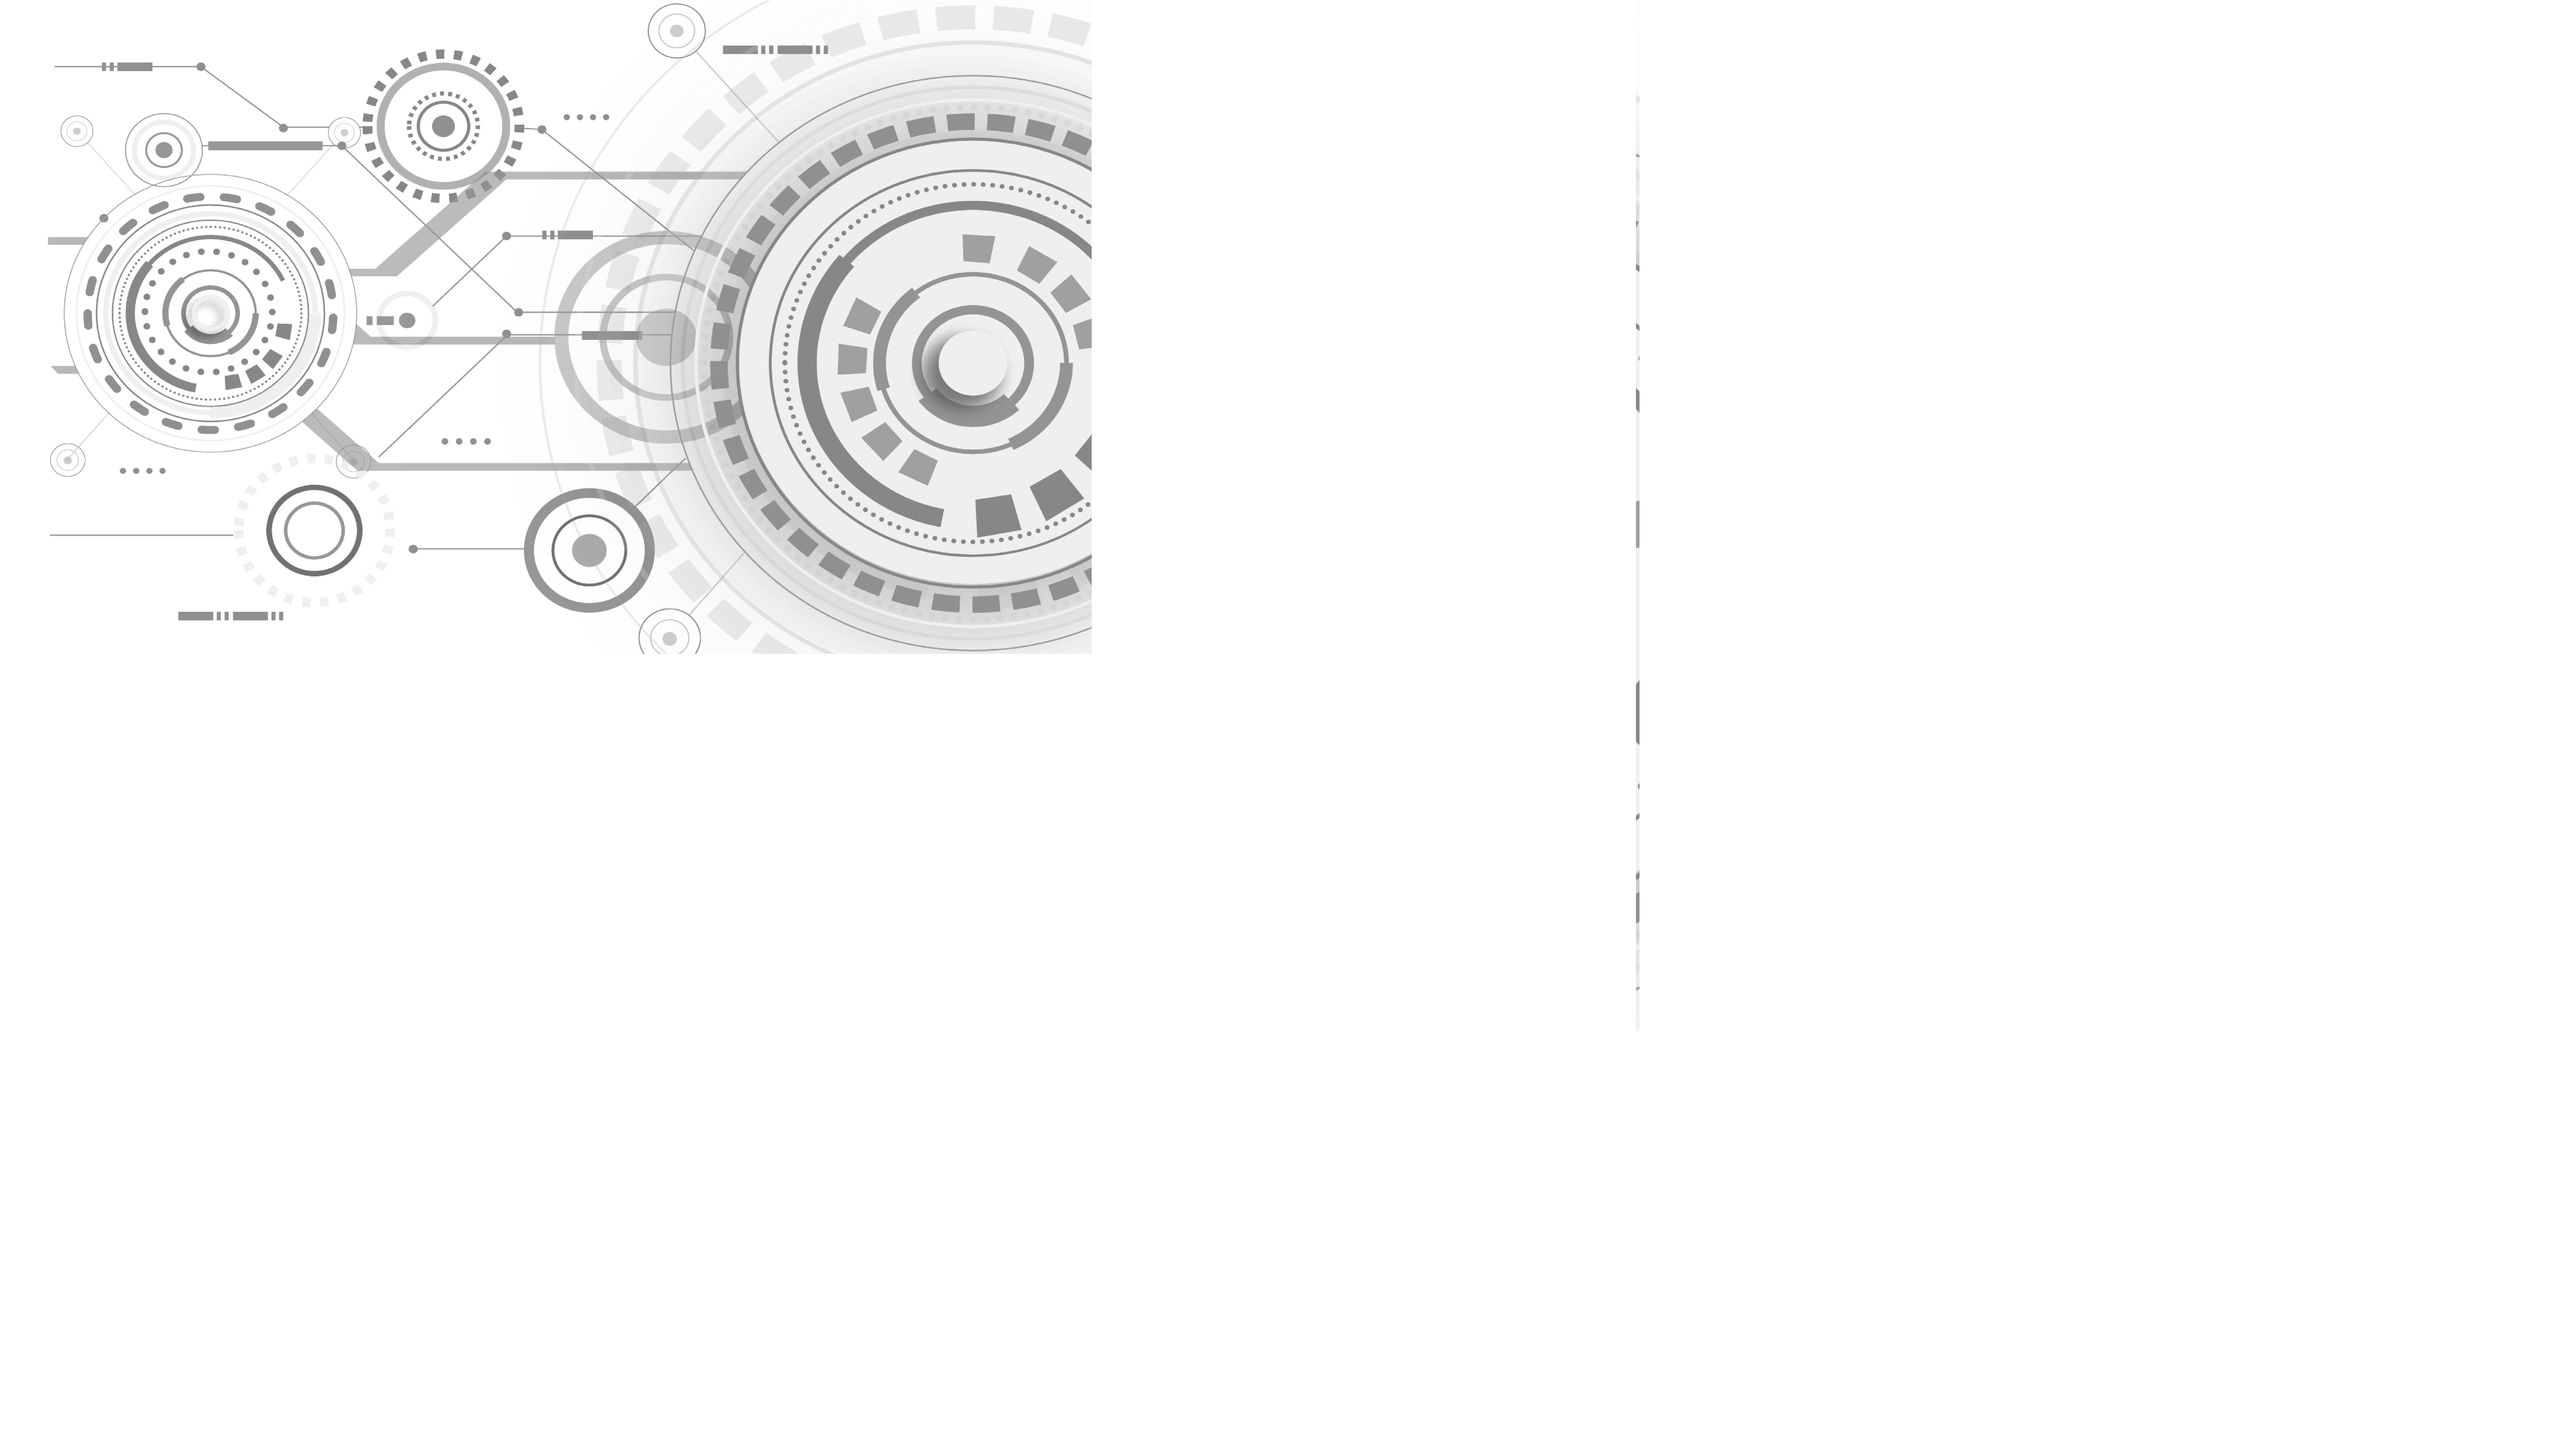
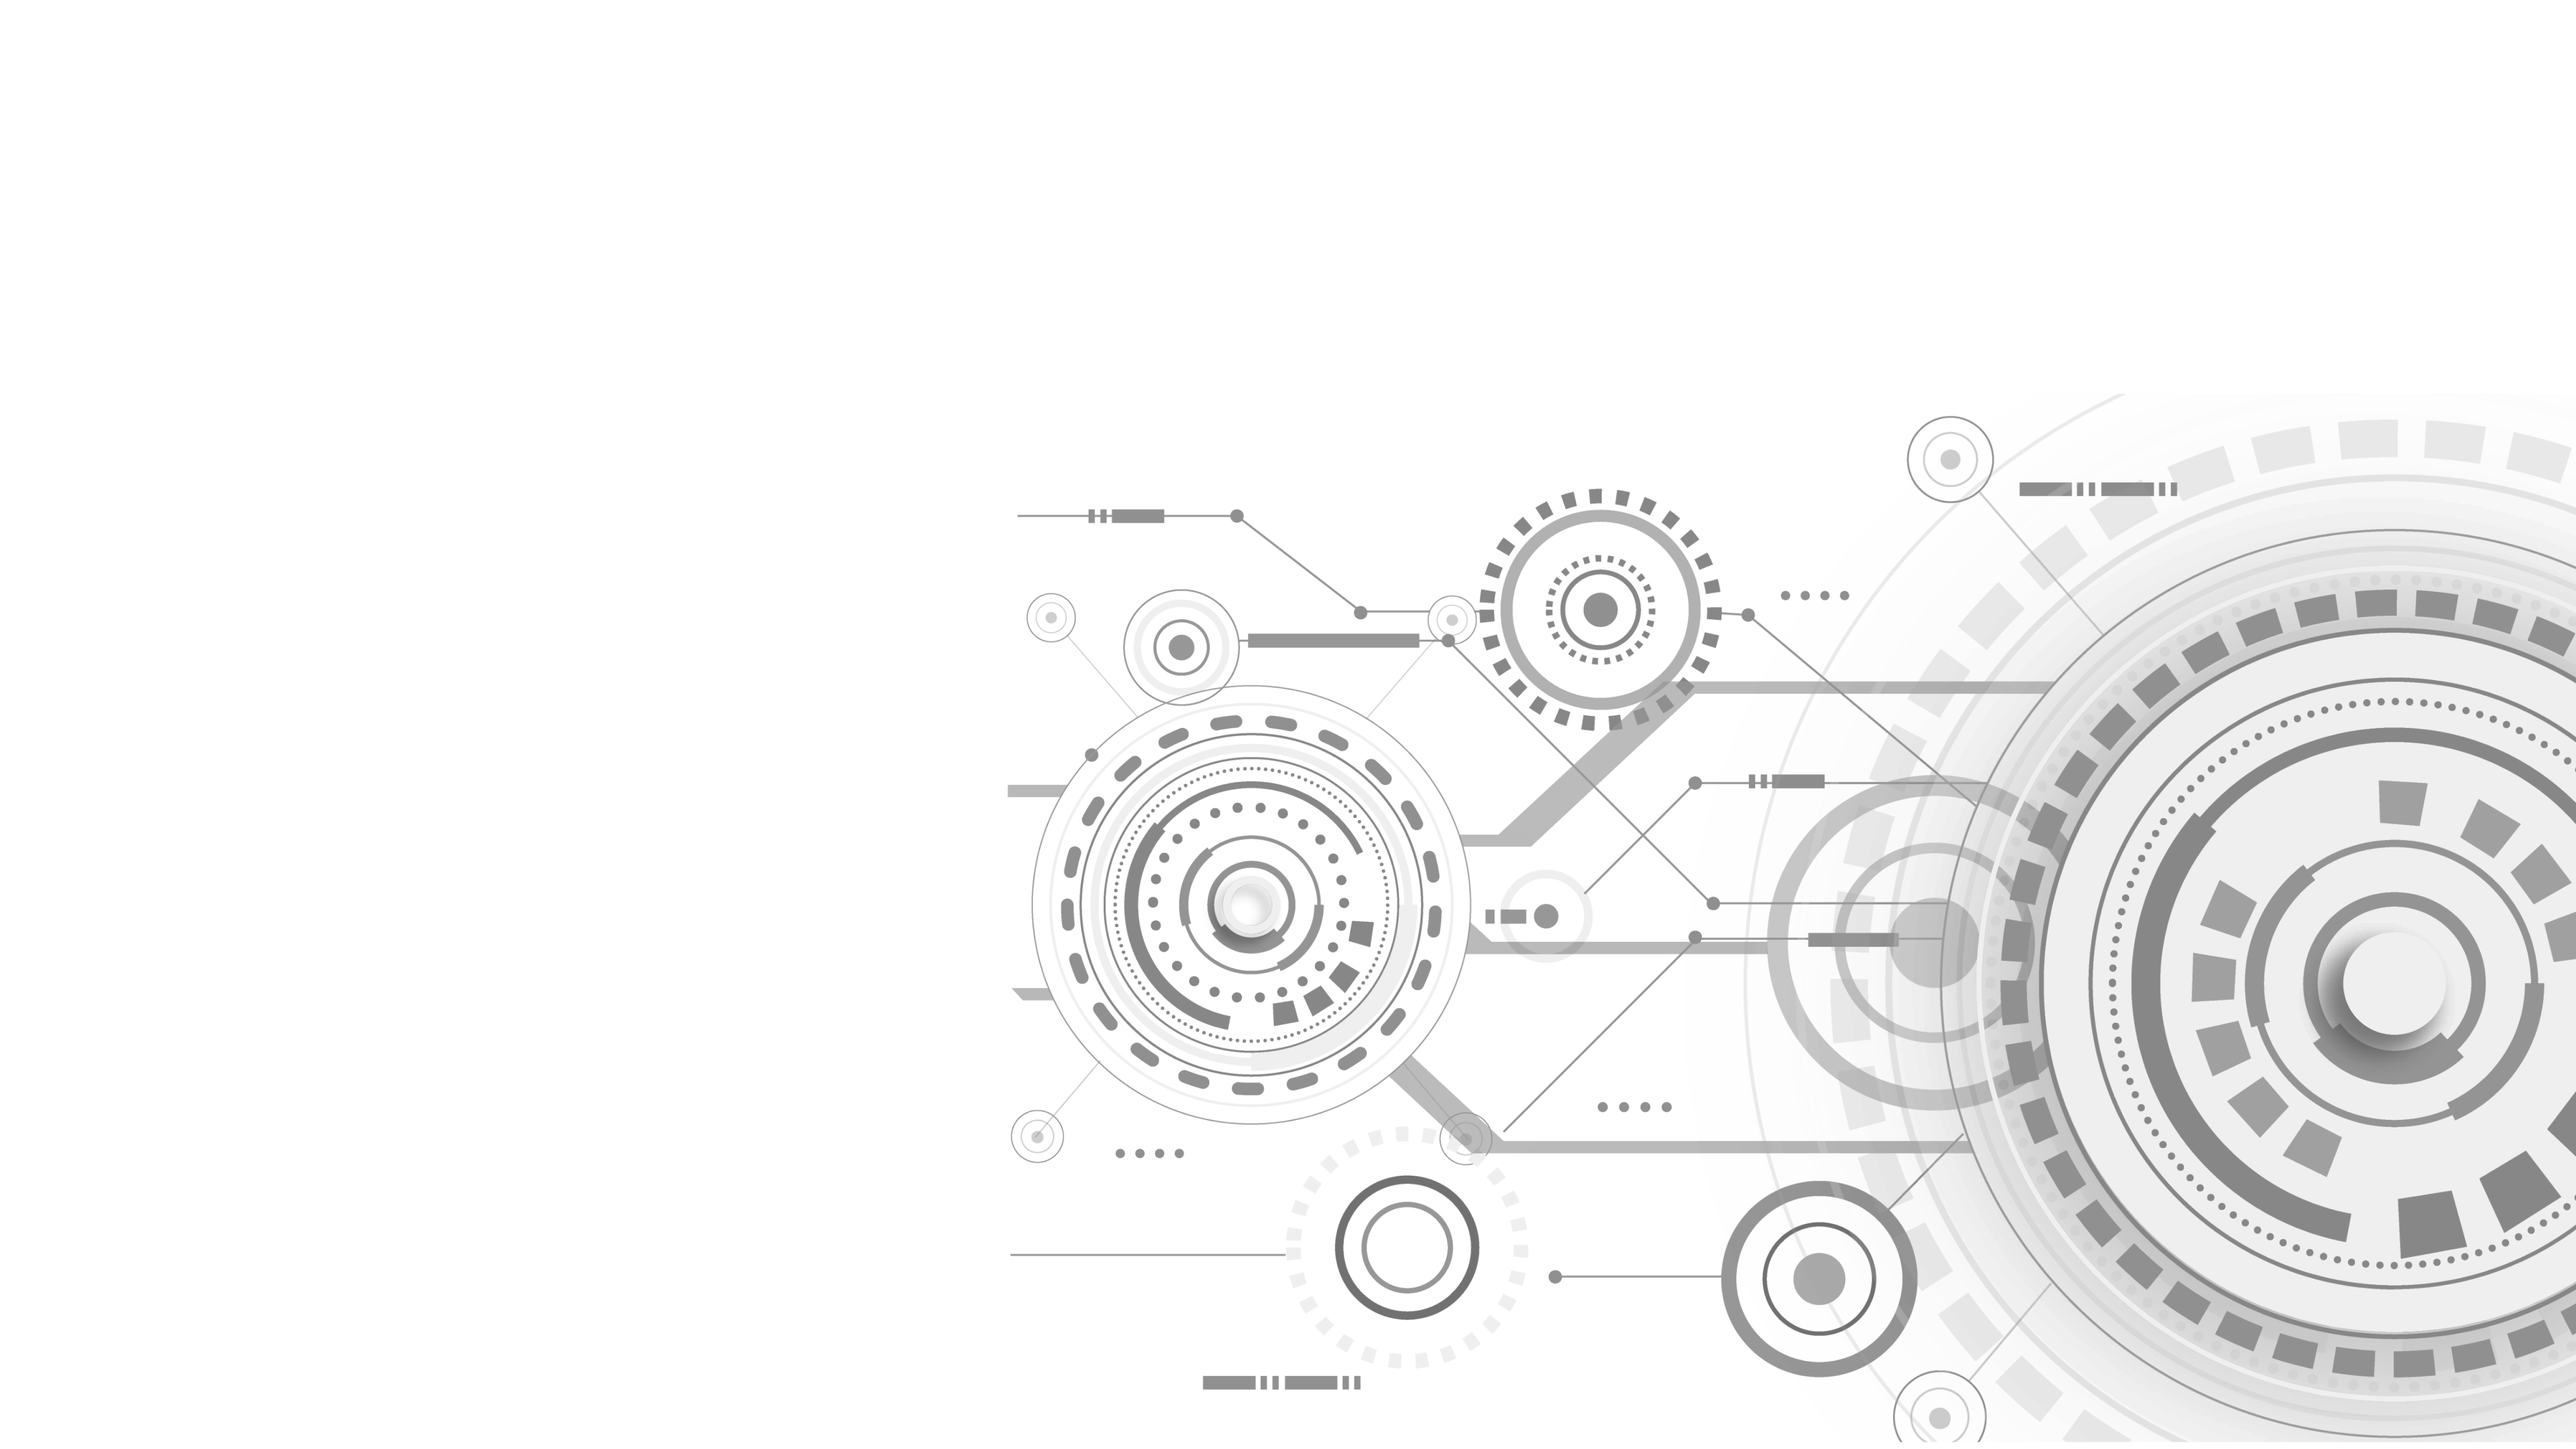
ccd

diff --git a/public/css/style5.css b/public/css/style5.css
@@ -58,7 +58,7 @@
   --img-scale: scale(1.1);
 }
 
-@media screen and (min-width: 968px) {
+/*@media screen and (min-width: 968px) {
   :root {
     --biggest-font-size: 4rem;
     --h1-font-size: 2.25rem;
@@ -68,7 +68,7 @@
     --small-font-size: .875rem;
     --smaller-font-size: .813rem;
   }
-}
+}*/
 
 /*========== Variables Dark theme ==========*/
 body.dark-theme {
@@ -79,6 +79,17 @@ body.dark-theme {
   --body-color: hsl(var(--hue-color), 29%, 12%);
   --scroll-bar-color: hsl(var(--hue-color), 12%, 48%);
   --scroll-thumb-color: hsl(var(--hue-color), 12%, 36%);
+}
+
+body{
+  width: 100%;
+  height: 100%;
+}
+
+.navbar{
+  position: fixed;
+  width: 85%;
+  backgrond:var(--body-color);
 }
 
 .col-md-5 span{
@@ -99,30 +110,54 @@ body.dark-theme {
     margin-left: 4rem;
 }*/
 
-.col-sm-7{
-    float: right;
-    padding-top: 10rem;
-    padding-bottom: 10.8rem;
-    padding-left: 4rem;
-    background-color: var(--body-color);
+.row{
+  --bs-gutter-x: -1.5rem;
+  margin-left: 0rem;
+  margin-right: 0rem;
 }
 
-.col-sm-4 {
+body{
+  width: auto;
+  background-image: url(/img/bgbody.png);
+  background-size: cover;
+  height: max-content;
+}
+
+.col-md-7{
+    /*padding-top: 12rem;*/
+    float: right;
+   padding-top: 12rem;
+   /*background: var(--body-color);*/
+   background-size: cover;
+}
+
+.col-md-5{
     float: left;
     text-align: left;
-    margin-top: 15rem;
-    padding-left: 15px;
+    padding-top: 15rem;
+    /*background-image: url(/img/bgbody.png);*/
+    background-size: cover;
+    /*background: rgb(206, 243, 255);*/
+    /*background: var(--body-color);*/
+    background: none;
+}
+
+.col-sm-4 h2{
+  margin-bottom: 25px;
 }
 
 .col-sm-4 span{
     color: deepskyblue;
 }
 
+.fa-search:hover{
+  transform: scale(1.1);
+}
+
 #search{
     width: 630px;
     height: 40px;
-    border: 1px solid;
-    border-color: deepskyblue;
+    border: none;
     border-radius: 30px;
     margin-bottom: 20px;
     padding-left: 40px;
@@ -135,10 +170,12 @@ body.dark-theme {
     outline: 0px;
 }
 
-.row {
-    width: auto;
-    height: auto;
+
+.fa-search{
+  position: absolute;
+  margin-top: 3px;
 }
+
 
 .content-table {
     border-collapse: collapse;
@@ -149,13 +186,11 @@ body.dark-theme {
     border-radius: 10px 10px 0 0;
     box-shadow: 0 0 10px (0,0,0,0.15);
     text-align: center;
-    overflow: hidden;
     
 }
 
 #kolom1{
     background-color: #fff;
-    margin-bottom: -1rem;
     padding-left: 7.5rem;
 }
 
@@ -170,9 +205,8 @@ table{
 }
 
 td{
-  border: 2px solid skyblue;
+  border: 2px solid skyblue;;
   padding: 10px 30px;
-  background-color: rgb(236, 250, 255);
   color: black;
 }
 
@@ -194,42 +228,80 @@ tr:last-child td:last-child{
 
 .btn {
     position: absolute;
+    border: none;
 }
 
 #hlo span{
     color: deepskyblue;
 }
 
-.footer__container {
-    row-gap: 4rem;
-    float: left;
+#sosmed {
+  padding-top: 20rem;
+}
+
+#sosmed .fa{
+  color: black;
+  text-decoration: none;
+  margin-right: 10px;
+}
+
+/*.card-footer .fa{
+  margin-right: 20.5rem;
+  padding-left: 2rem;
+  padding-bottom: 4.36rem;
+  color: black;
+  text-decoration: none;
+}
+
+.card-footer{
+  padding-bottom: 15px;
+}*/
+
+  .container h2{
+    font-size: 37.5px;
   }
 
-  .footer {
-      padding-top: 10rem;
-      margin-left: 3rem;
+  .container p{
+    font-size: 17px;
   }
+
+ @media screen and (max-width: 768px){
+
+  body{
+    width: auto;
+    height: auto;
+  }
+
+  #search{
+    width: 390px;
+    height: 40px;
+    border: none;
+    border-radius: 30px;
+    margin-bottom: 20px;
+    padding-left: 40px;
+    padding-bottom: 5px;
+    padding-right: 15px;
+}
+
+.content-table {
+  border-collapse: collapse;
+  margin: 30px 0;
+  font-size: 0.9em;
+  width: 390px;
+  padding-top: 20px;
+  border-radius: 10px 10px 0 0;
+  box-shadow: 0 0 10px (0,0,0,0.15);
+  text-align: center;
   
-  .footer__content {
-    grid-template-columns: repeat(auto-fit, minmax(220px, 1fr));
-    row-gap: 1rem;
-  }
-  
-  .footer__title, 
-  .footer__subtitle {
-    font-size: var(--h3-font-size);
-  }
-  
-  .footer__title {
-    margin-bottom: var(--mb-0-5);
-  }
-  
-  .footer__description {
-    margin-bottom: var(--mb-2);
-  }
-  
-  .footer__social {
-    font-size: 1.25rem;
-    color: var(--title-color);
-    margin-right: var(--mb-1-25);
-  }
+}
+
+.col-md-7{
+  text-align: center;
+  padding-right: 15px;
+}
+
+.col-md-5{
+  text-align: center;
+  padding-right: 15px;
+}
+ }

diff --git a/resources/views/frontend/cari.blade.php b/resources/views/frontend/cari.blade.php
@@ -16,8 +16,11 @@
         <script src="js/jquery-1.12.4.min.js"></script>
         <script src="js/jquery.easing.1.3.js"></script>
         <script src="https://kit.fontawesome.com/206142bfe3.js" crossorigin="anonymous"></script>
+        <script src="https://ajax.googleapis.com/ajax/libs/jquery/3.1.0/jquery.min.js"></script>
+  
 
         
+<link rel="stylesheet" href="https://cdnjs.cloudflare.com/ajax/libs/font-awesome/4.7.0/css/font-awesome.min.css">        
 
         <!--=============== REMIXICONS ===============-->
         <link href="https://cdn.jsdelivr.net/npm/remixicon@2.5.0/fonts/remixicon.css" rel="stylesheet">
@@ -34,32 +37,83 @@
     <title>Cari Kelompok</title>
   </head>
   <body>
-    <nav class="navbar navbar-expand-lg navbar-light bg-light">
       <div class="container">
-        <a class="navbar-brand" href="#">Navbar</a>
-        <button class="navbar-toggler" type="button" data-bs-toggle="collapse" data-bs-target="#navbarNav" aria-controls="navbarNav" aria-expanded="false" aria-label="Toggle navigation">
-          <span class="navbar-toggler-icon"></span>
-        </button>
-        <div class="collapse navbar-collapse" id="navbarNav">
-          <ul class="navbar-nav ms-auto">
-            <li class="nav-item">
-              <a class="nav-link active" aria-current="page" href="#">Home</a>
-            </li>
-            <li class="nav-item">
-              <a class="nav-link" href="#">Features</a>
-            </li>
-            <li class="nav-item">
-              <a class="nav-link" href="#">Pricing</a>
-            </li>
-            <li class="nav-item">
-              <a class="nav-link disabled" href="#" tabindex="-1" aria-disabled="true">Disabled</a>
-            </li>
-          </ul>
-        </div>
+    <nav class="navbar navbar-expand-sm navbar-light">
+      <div class="container">
+          <a href="/" class="navbar-brand">POSITRON</a>
+          <button class="navbar-toggler" type="button" data-bs-toggle="collapse" data-bs-target="#navbarNav" aria-controls="navbarNav" aria-expanded="false" aria-label="Toggle navigation">
+              <span class="navbar-toggler-icon"></span>
+          </button>
+          <div class="collapse navbar-collapse" id="navbarNav">
+              <ul class="navbar-nav ms-auto">
+                  <li class="navbar-item">
+                      <a href="/" class="nav-link active" aria-current="page">Home</a>
+                  </li>
+                  <li class="navbar-item">
+                      <a href="/" class="nav-link active" aria-current="page">Home</a>
+                  </li>
+                  <li class="navbar-item">
+                      <a href="/" class="nav-link active" aria-current="page">Home</a>
+                  </li>
+                  <li class="nav-item">
+                      <a class="nav-link disabled" href="#" tabindex="-1" aria-disabled="true">Disabled</a>
+                    </li>
+              </ul>
+          </div>
       </div>
-    </nav>
+ </nav>
 
-    <div class="row-cols-auto">
+<div class="row">
+        <div class="col-md-5" >
+        <h1>Cari tahu <span>tim</span><br> dan mentor kamu</h1>
+        <p>Lorem ipsum dolor sit amet consectetur adipisicing elit. Sit minima unde dolore alias!</p>
+        <div id="sosmed">
+    <a href="#" class="fa fa-instagram">@hmjelektro_um</a>
+    <a href="#" class="fa fa-facebook">@hmjelektro_um</a>
+    <a href="#" class="fa fa-twitter">@hmjelektro_um</a>
+</div>
+</div>
+    <div class="col-md-7">
+        <form class="cari" action="/cari" method="GET"> 
+            <button type="submit" class="btn" value="CARI"><span class="fa fa-search"></span></button>
+              <input type="search" name="cari" id="search" placeholder="Masukkan NIM" value="{{old('cari')}}">
+          </form>
+
+          <div id="read"></div>
+          @foreach($data as $d)
+          <div id="hlo">
+              <h1>Halo, <span>{{$d->nama}}</span> </h1>
+              <p>Lorem ipsum dolor sit amet consectetur {{$d->offering}}, adipisicing elit. Doloribus, autem.</p>
+          </div>
+          <table class="content-table">
+              <thead>
+                  <tr>
+                      <th>Nama</th>
+                      <th>Offering</th>
+                      <th>Peran</th>
+                  </tr>
+              </thead>
+              <tbody>
+                  <tr>
+                      <td>{{$d->nama}}</td>
+                      <td>{{$d->offering}}</td>
+                      <td>{{$d->peran}}</td>
+                  </tr>
+              </tbody>
+          </table>
+          @endforeach
+    </div>
+</div>
+
+<!--<footer>
+ <div class="card-footer">
+     <a href="#" class="fa fa-instagram">@hmjelektro_um</a>
+     <a href="#" class="fa fa-facebook">@hmjelektro_um</a>
+     <a href="#" class="fa fa-twitter">@hmjelektro_um</a>
+ </div>
+</footer>-->
+
+    <!--<div class="row-cols-auto">
       <div class="col-sm-4" id="kolom1">
           <div class="container">
           <h2>Cari Tahu <span>tim</span> <br> dan mentor kamu </h2>
@@ -115,7 +169,7 @@
           @endforeach
       </div>
       </div>
-      </div>
+      </div>-->
 
     <!-- Optional JavaScript; choose one of the two! -->
 
@@ -129,7 +183,9 @@
     -->
 
     
-    
-  </body>
+</div>
+
+
+</body>
   
 </html>
